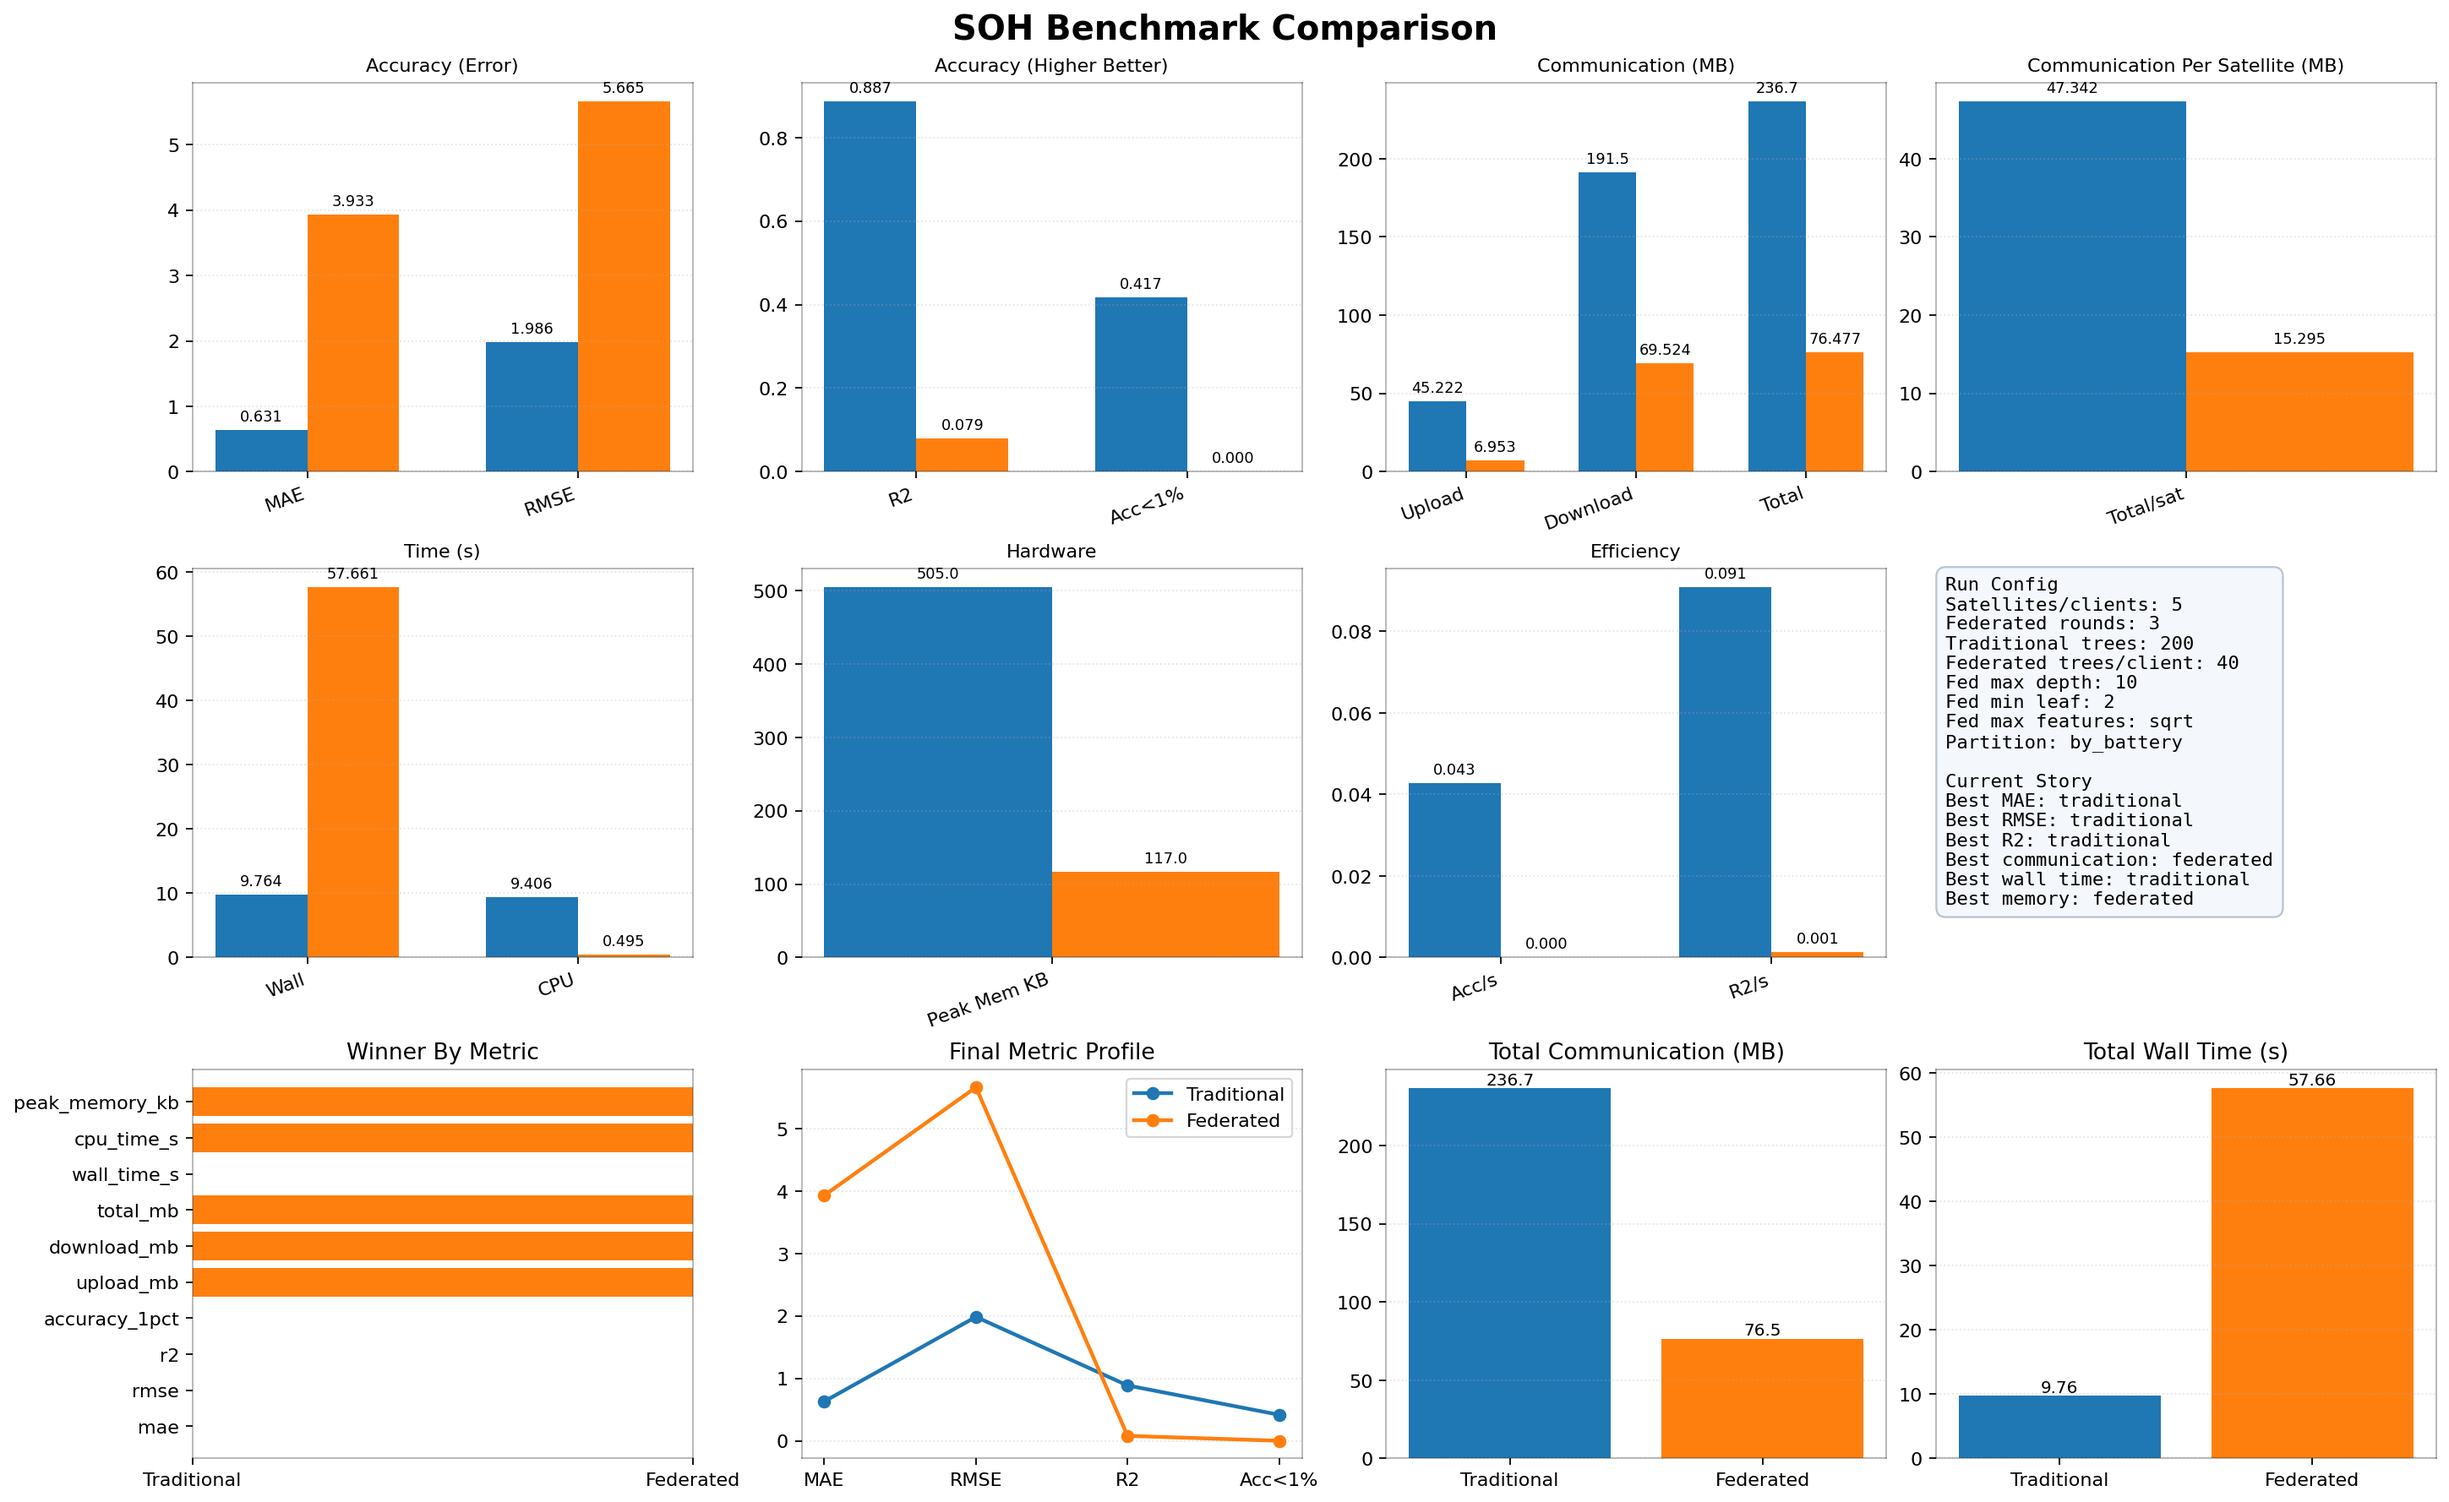
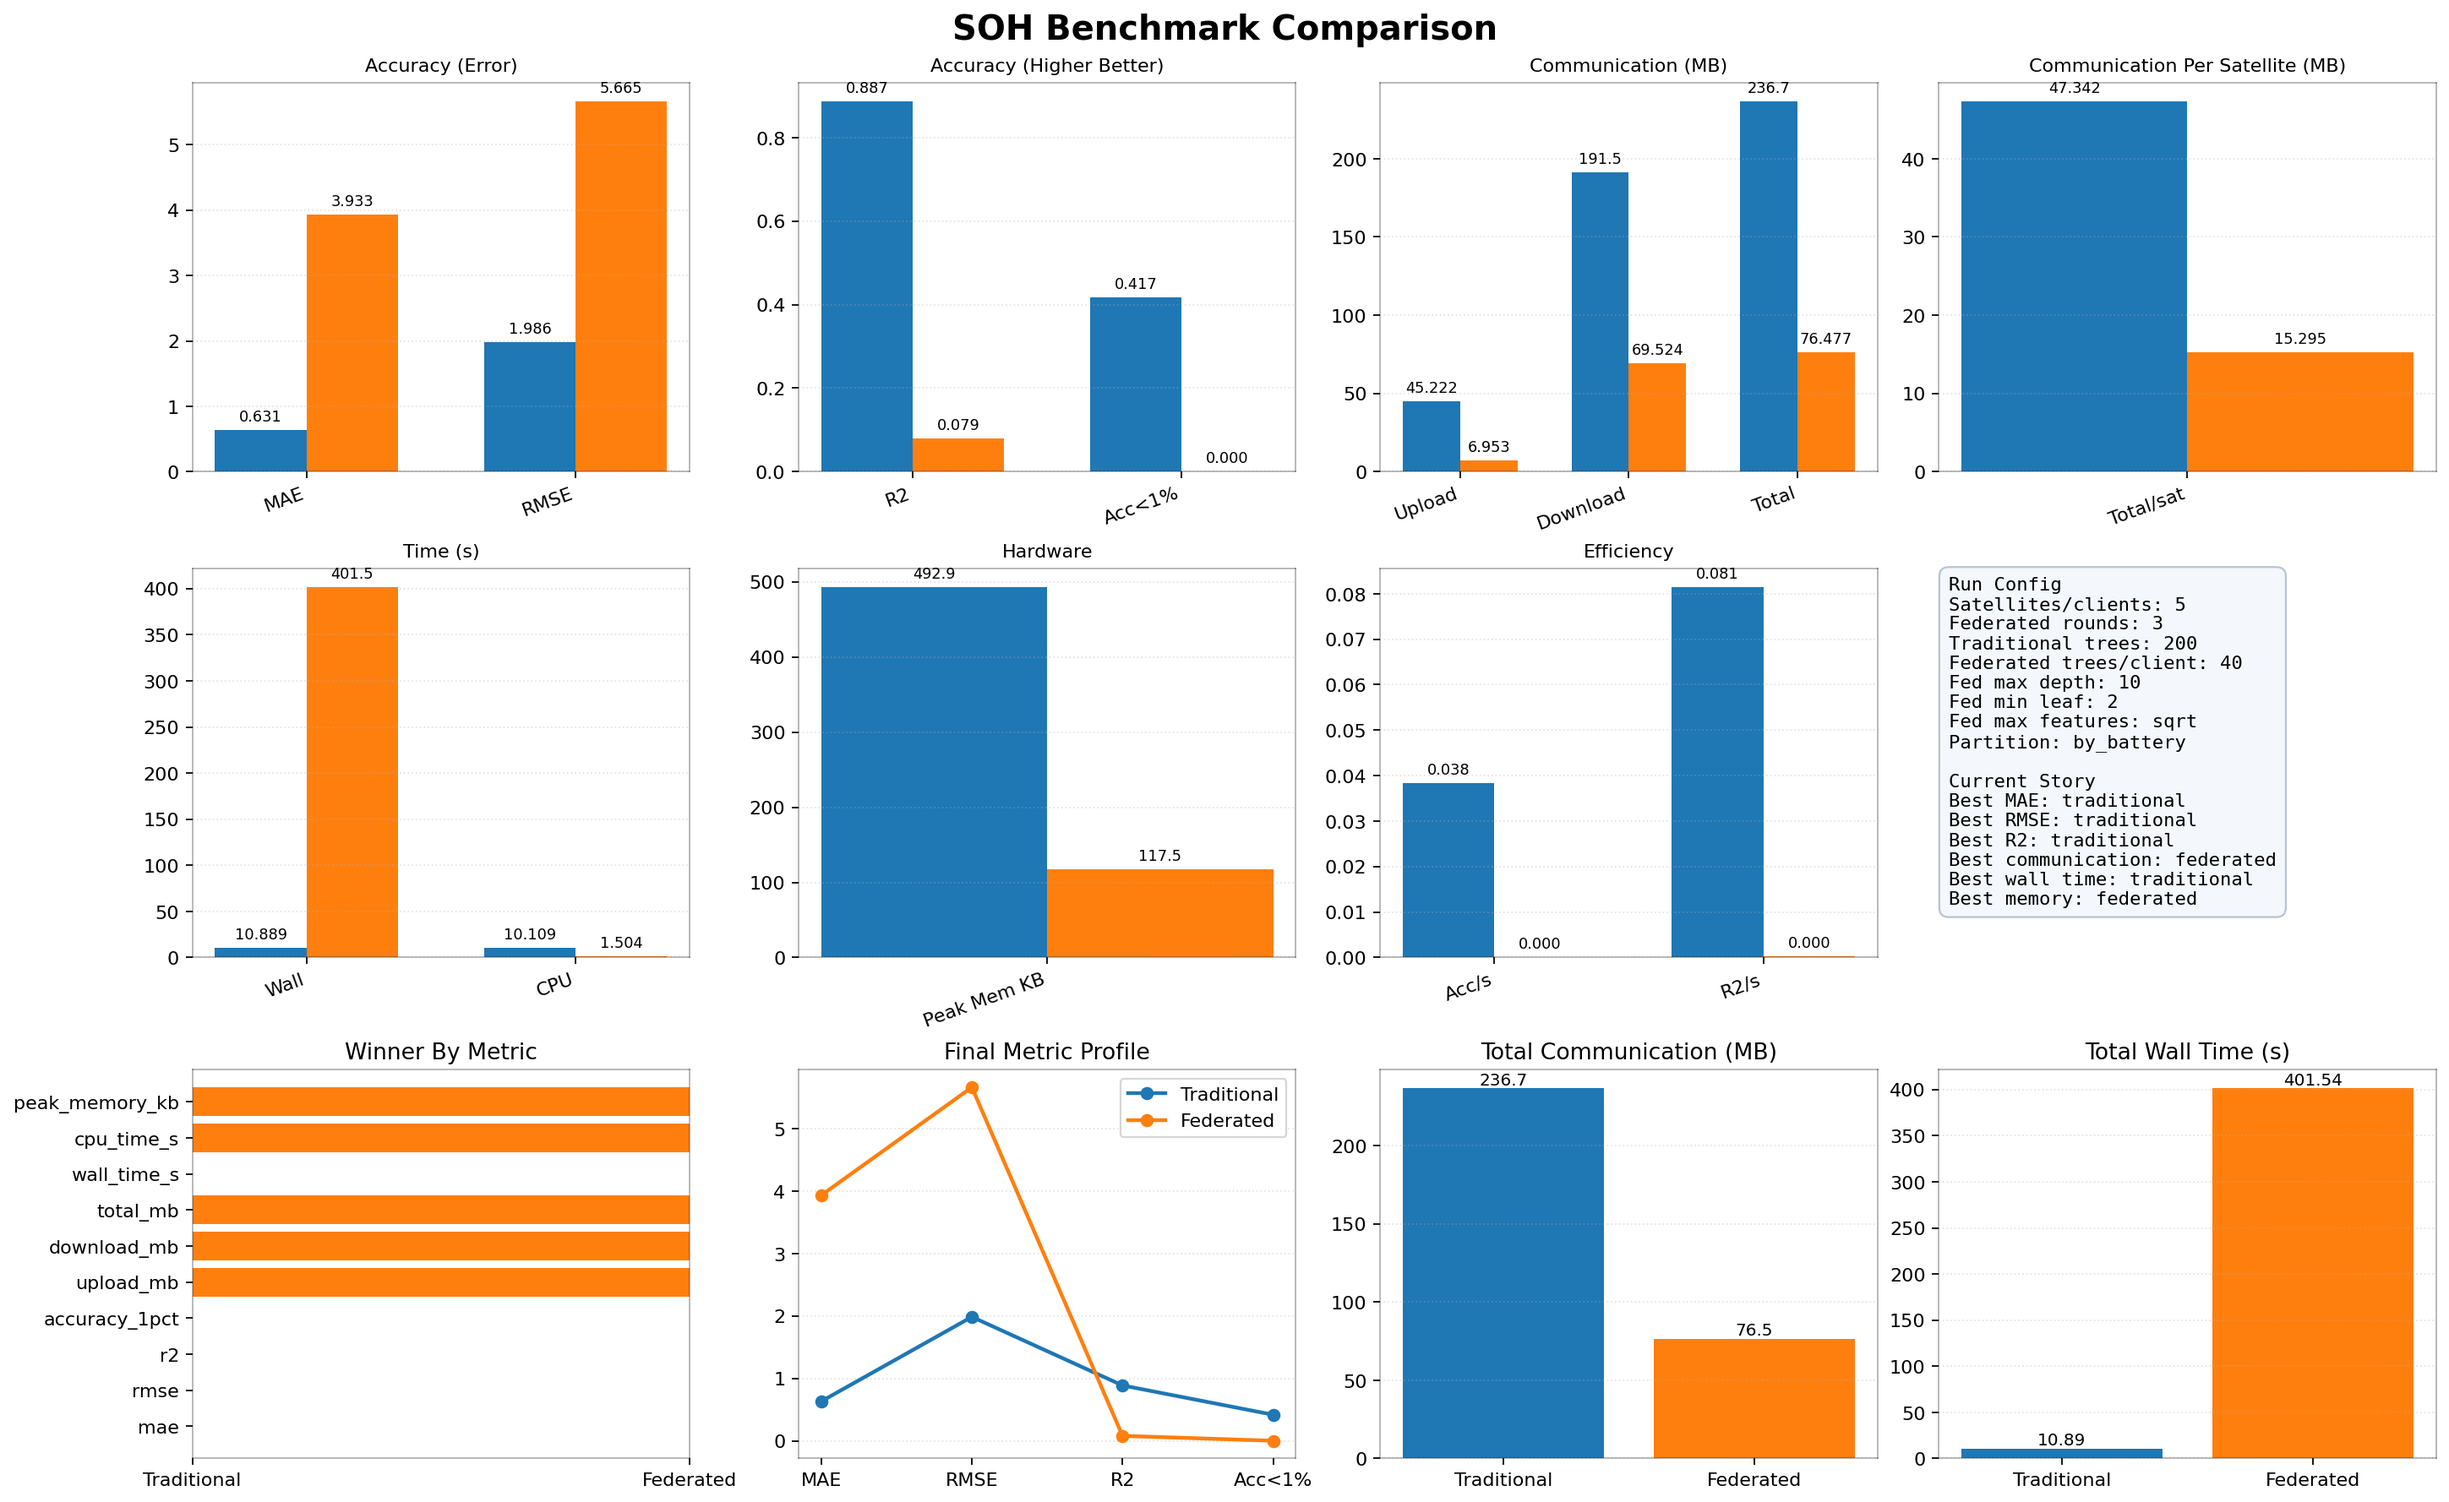
Benchmark Script - Current Version

diff --git a/benchmark_outputs_improved/summary.md b/benchmark_outputs_improved/summary.md
@@ -3,8 +3,8 @@
 ## Headline
 
 - Traditional wins on predictive quality: MAE 0.631 vs 3.933, RMSE 1.986 vs 5.665, R2 0.887 vs 0.079.
-- Federated wins on communication and reported memory in the current 5-satellite setup: total MB 76.5 vs 236.7, peak memory KB 117.0 vs 505.0.
-- Traditional is faster end-to-end: wall time 9.76s vs 57.66s.
+- Federated wins on communication and reported memory in the current 5-satellite setup: total MB 76.5 vs 236.7, peak memory KB 117.5 vs 492.9.
+- Traditional is faster end-to-end: wall time 10.89s vs 401.54s.
 
 ## Winner By Metric
 
@@ -21,10 +21,10 @@
 
 ## Efficiency
 
-- Traditional accuracy_1pct per second: 0.0427
+- Traditional accuracy_1pct per second: 0.0383
 - Federated accuracy_1pct per second: 0.0000
-- Traditional R2 per second: 0.0908
-- Federated R2 per second: 0.0014
+- Traditional R2 per second: 0.0814
+- Federated R2 per second: 0.0002
 
 ## Next Step
 
